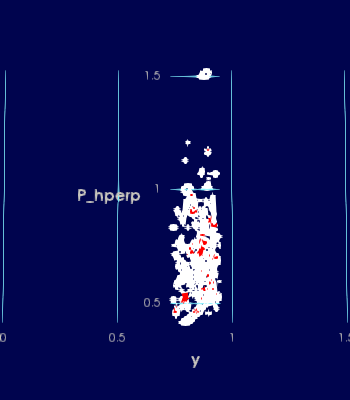
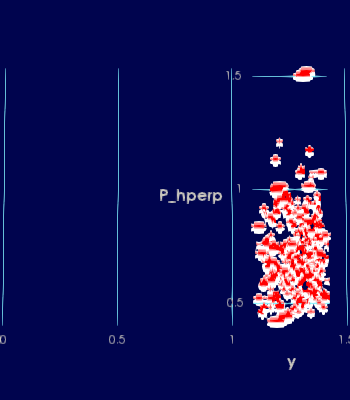
added scaling

diff --git a/thumbnail_generation.py b/thumbnail_generation.py
@@ -13,9 +13,9 @@ data_file_name = "K+Filtered_HERMES+C.csv"
 #name of the export csv. Particle type is appended as a prefix
 export_file_name = "thumbnail"
 #import file location (location of data files)
-data_location = "C:/Users/Ajidot/Desktop/vt_stuff/info_viz/project/Particle_CinemaExport_ToyData"
+data_location = "C:/Users/ajido/Desktop/vt stuff/info visualization/project"
 #export file location
-export_location = "C:/Users/Ajidot/Desktop/vt_stuff/info_viz/project/HERMES_thumbnail_generation/Export"
+export_location = "C:/Users/ajido/Desktop/vt stuff/info visualization/project/HERMES_thumbnail_generation/Export"
 #column names to generate thumbnails by
 interest_columns = [
 	"x",
@@ -42,6 +42,7 @@ thumbnail_num = 6
 
 x_axis_labels = [0, 0.5, 1, 1.5]
 y_axis_labels = [0, 0.5, 1, 1.5, 2]
+scale_arr = [1.5, 1, 1]
 #####################################
 
 #remove any tmp files
@@ -297,7 +298,7 @@ for i in range(thumbnail_num):
 	
 	cntrn = Contour(pvin)
 	cntrn.ComputeScalars = True
-	cntrn.Isosurfaces = [1, 1.7, 3, 6, 10]
+	cntrn.Isosurfaces = [1, 1.2, 1.4, 1.6, 2]
 	
 	rep = Show(cntrn)
 	dp = GetDisplayProperties()
@@ -322,6 +323,8 @@ for i in range(thumbnail_num):
 	dp.DataAxesGrid.YTitleBold = 1
 	dp.DataAxesGrid.XTitleFontSize = 16
 	dp.DataAxesGrid.YTitleFontSize = 16
+	
+	dp.Scale = scale_arr
 	
 	rep.ColorArrayName = 'density'
 	arr = cntrn.PointData.GetArray('density')
